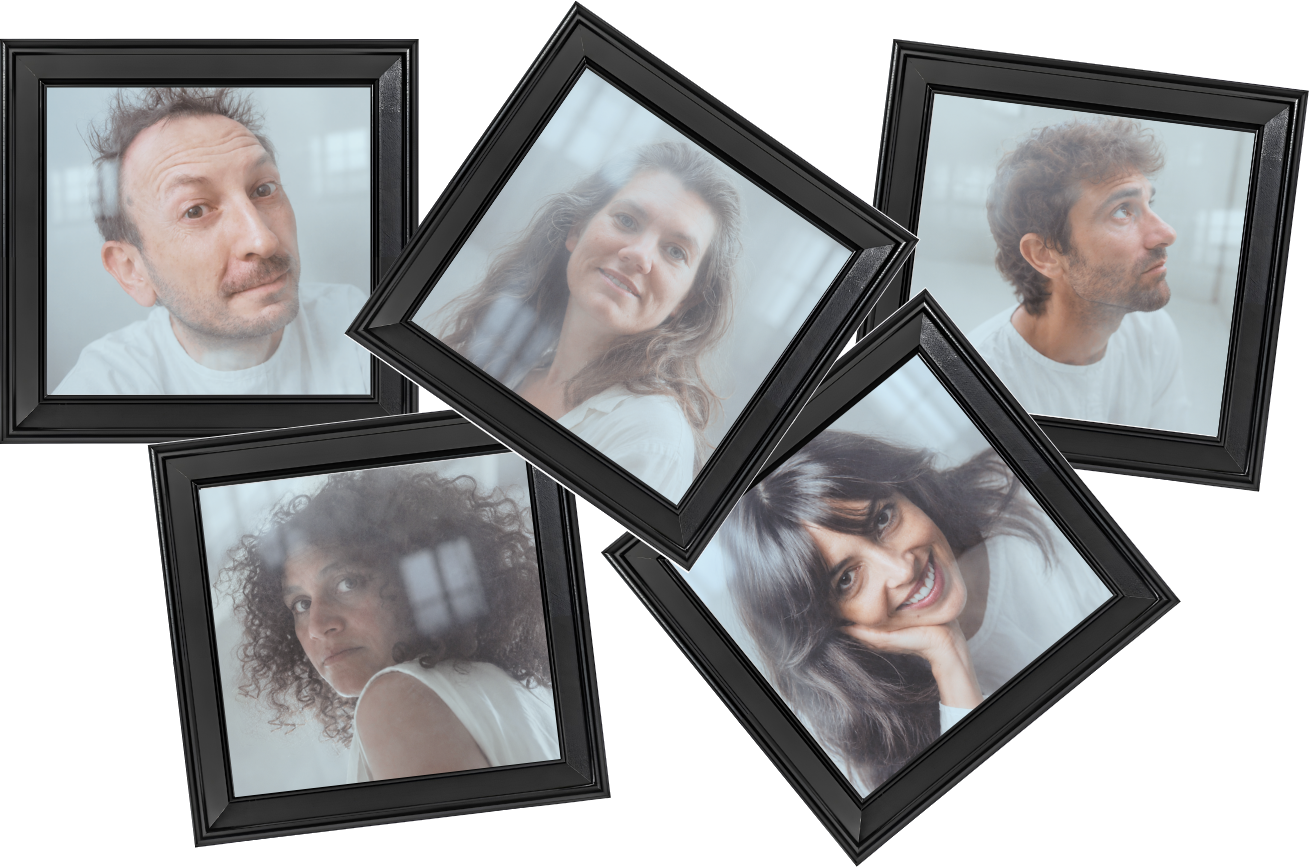
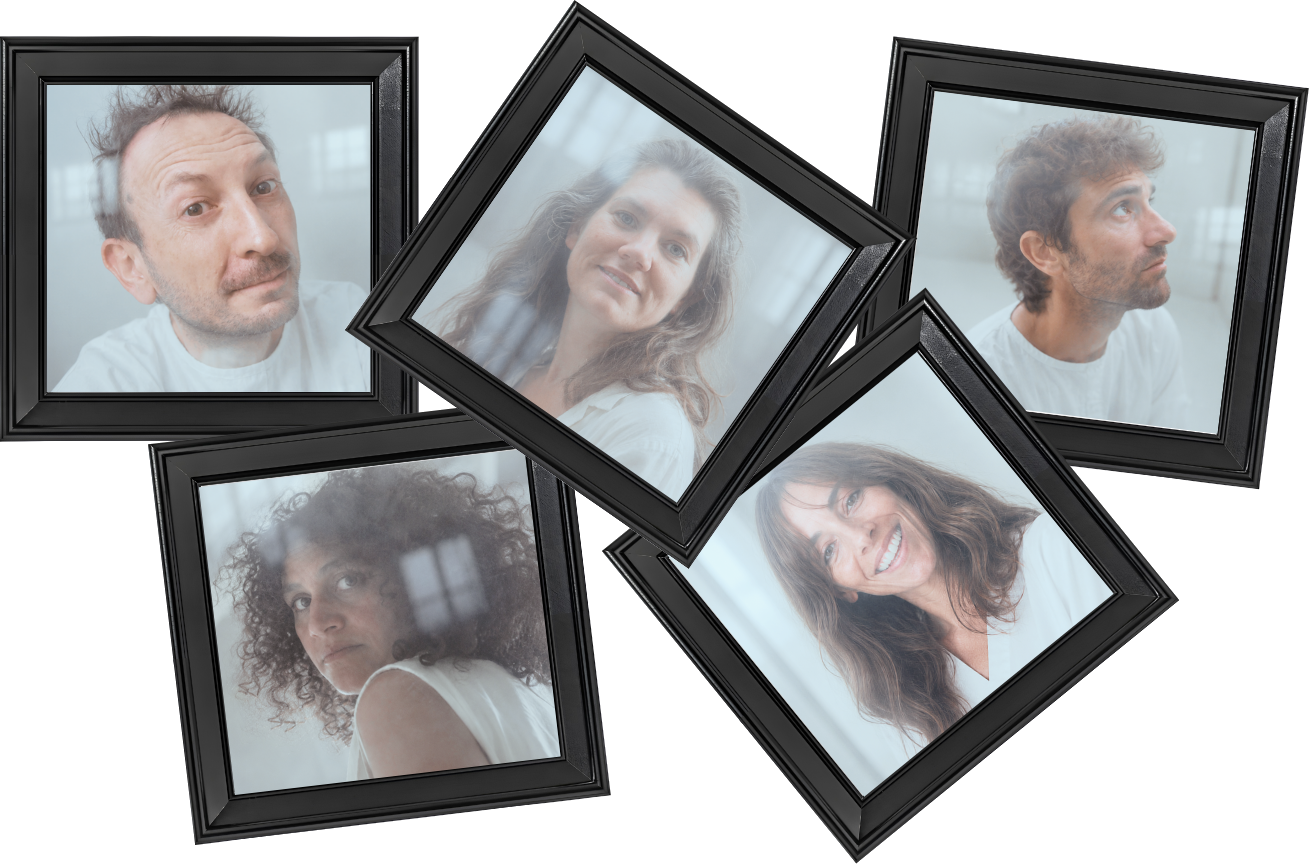
msi a jour portraits

diff --git a/immonde/index.html b/immonde/index.html
@@ -258,7 +258,7 @@
 
       <div class="generique">
         <span class="gen-label">Avec</span>
-        <p class="gen-ligne">Perrine Andersen · Maya Benainous · Sebastien Coene · Mélanie Guillet · Arnault Sablier</p>
+        <p class="gen-ligne">Perrine Andersen · Maya Benainous · Sebastien Coene · Mélanie Guilet · Arnault Sablier</p>
       </div>
 
       <div class="sep"><span class="sep-txt">Réservation</span></div>
